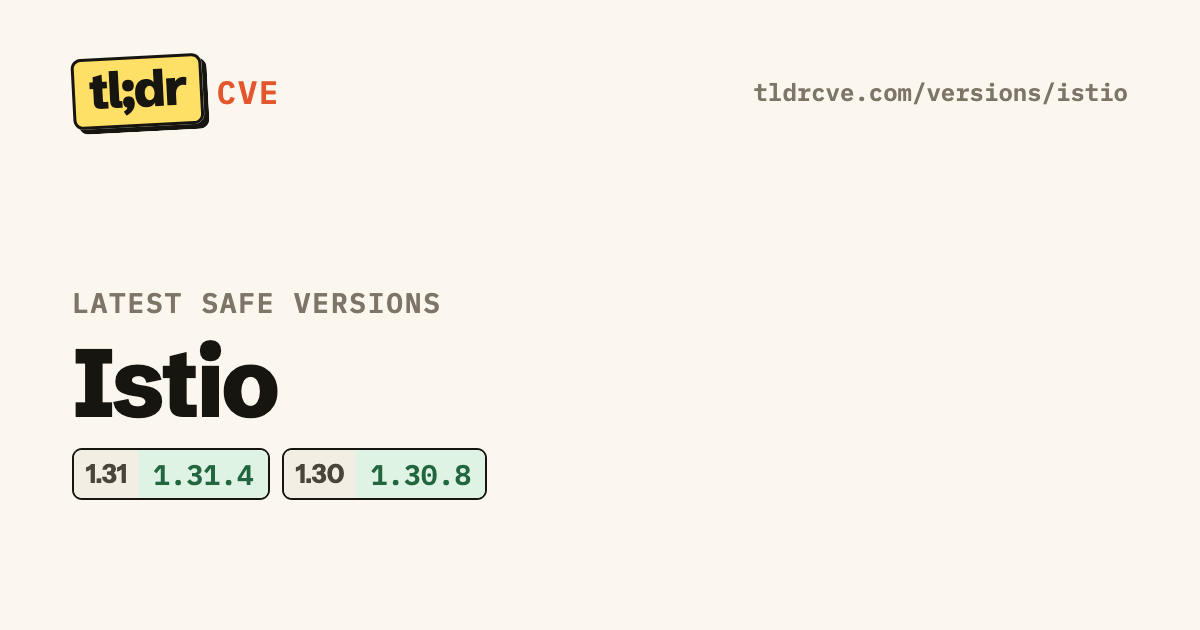
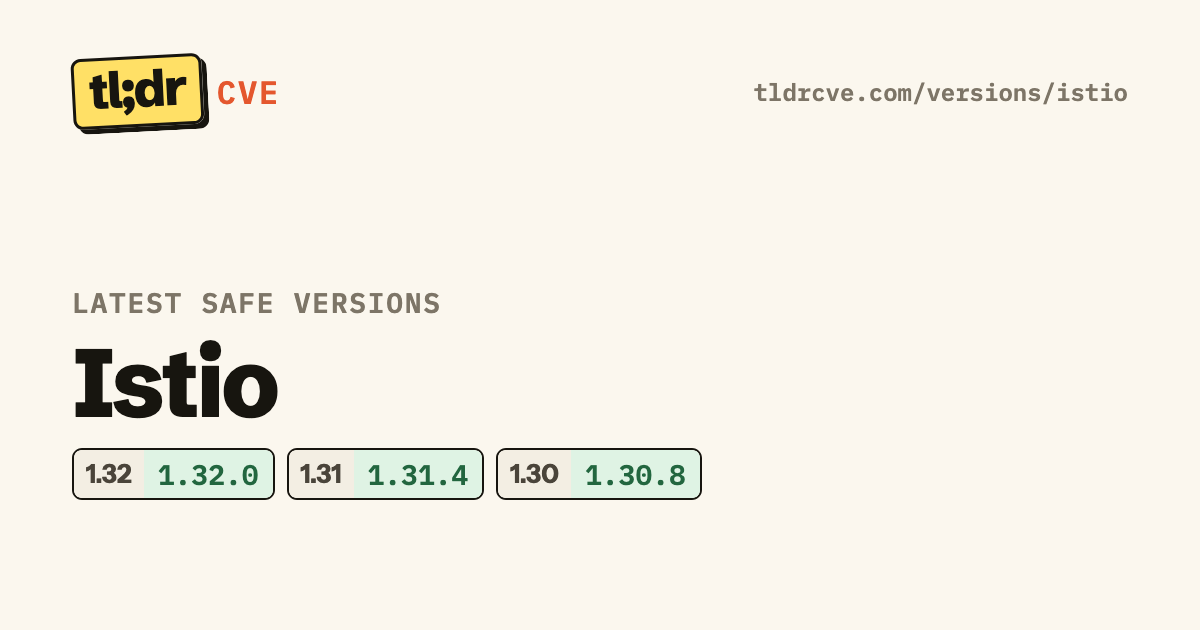
Correct Upload2Shell exploit status; verifier fixes to today's data; Istio 1.32 (#17)
* Correct Upload2Shell exploit status; add Istio 1.32; skip unlisted Spring lines

Upload2Shell: the researchers' write-up includes a downloadable
proof-of-concept file (memory control, not command execution), so
exploit is now public and scare 2.8; adds Amazon Linux and SUSE, which
have no fixed package yet. Istio 1.32.0 joins Safe versions and the
Brotli page's fixed_in. Spring Boot 4.2, Framework 7.1, Security 7.2
and AI 2.1 are marked skip_lines, since the advisories don't list
them, and versions.py stops flagging them. AGENTS.md now requires an
independent verification agent on every data PR and documents
skip_lines.

* Fix verifier findings on Upload2Shell and today's versions data

NetScaler fixed_in now uses the first fixes for CVE-2026-88771
(CTX697096). Next.js drops an older-lines note that didn't apply to every
page; sharp's note says before 0.35.5 and cites GHSA-wq5f; the React
Server Components note says -parcel starts at 19.1; LiteLLM cites GitHub
releases for its LTS label; Ghostscript's note and Upload2Shell's
WordPress 7.1 entry drop unsourced claims. Upload2Shell: precise PoC
wording, named SUSE products, Ubuntu's conflicting tracker status, a
sourced desktop sentence, and the CVE record's 2 Sep disclosure date.

* Fix second-pass verifier findings

Upload2Shell quotes Ubuntu's tracker as "Needs evaluation", uses 8 Sep
(fix released) as the disclosure date, and names the SUSE products in
[…]

Changed region(s): [[0.0925, 0.6937, 0.5858, 0.8143]]

diff --git a/tools/versions.py b/tools/versions.py
@@ -176,7 +176,8 @@ def refresh(v, latest):
         elif ver and vkey(ver) < vkey(line["latest"]):
             notes.append(f"{line['line']}: feed says {ver}, we have {line['latest']}; feed lags, ignored")
     known = {l["key"] for l in v["lines"]}
-    for new in sorted(set(latest) - known, key=vkey, reverse=True):
+    skipped = set(v.get("skip_lines", {}))  # newer lines we chose not to list; the reason is in the file
+    for new in sorted(set(latest) - known - skipped, key=vkey, reverse=True):
         if known and all(vkey(new) > vkey(k) for k in known):
             notes.append(f"new line {new} ({latest[new][0]}) in the feed; add it by hand after checking it")
     if not v["lines"]:  # nothing fixed yet: say when a new release appears, it may be the fix

diff --git a/AGENTS.md b/AGENTS.md
@@ -94,7 +94,7 @@ Copy the shape of an existing file (`content/nginx2root.json` is a good model).
 
 ### Product version files (`versions/<product>.json`)
 
-`id`, `name`, `about`, `feed` (a `tools/versions.py` feed, or `null` for by hand), `latest_from` (URLs where the newest releases are checked), `filter` (All CVEs search term), `checked` (date of the last check), `lines[]` (`line`, `key`, `latest`, optional `released`, `note`), optional `older`, `unfixed[]` (`line`, `note`, `pages`) and `sources[]`. Update `checked` every time you look, even if nothing changed. The build notes products not checked for 14 days. A feed is a hint, not a source: confirm every change on the vendor's page in `latest_from` before it ships, then run `python3 tools/cards.py` (a changed version redraws the product's card) and open a pull request. Products without a feed are checked by hand; `--check` lists them after 7 days.
+`id`, `name`, `about`, `feed` (a `tools/versions.py` feed, or `null` for by hand), `latest_from` (URLs where the newest releases are checked), `filter` (All CVEs search term), `checked` (date of the last check), `lines[]` (`line`, `key`, `latest`, optional `released`, `note`), optional `older`, `unfixed[]` (`line`, `note`, `pages`), optional `skip_lines` (`{"4.2": "why we don't list it"}`: a newer line left out on purpose, so `--check` stops flagging it) and `sources[]`. Update `checked` every time you look, even if nothing changed. The build notes products not checked for 14 days. A feed is a hint, not a source: confirm every change on the vendor's page in `latest_from` before it ships, then run `python3 tools/cards.py` (a changed version redraws the product's card) and open a pull request. Products without a feed are checked by hand; `--check` lists them after 7 days.
 
 ### Evaluated, no page (`watch/<id>.json`)
 
@@ -121,3 +121,5 @@ When a vulnerability gets attention but doesn't qualify yet, record it instead o
   - Mark anything still expected as `pending` with an expected date.
 
 Maintainers run an additional review before anything is merged.
+
+**Independent verification before merge.** Every pull request that changes data (pages, `versions/`, `watch/`) gets checked by a separate agent (Claude Opus 5.5) before it merges. That agent didn't write the change. It opens every source and confirms each data point in the diff: versions, dates, CVE IDs, verdict inputs (exploit, attacks, KEV), commands and quotes. It reports anything a source doesn't say. Fix or remove every finding, then verify again; merge only when nothing is left.
